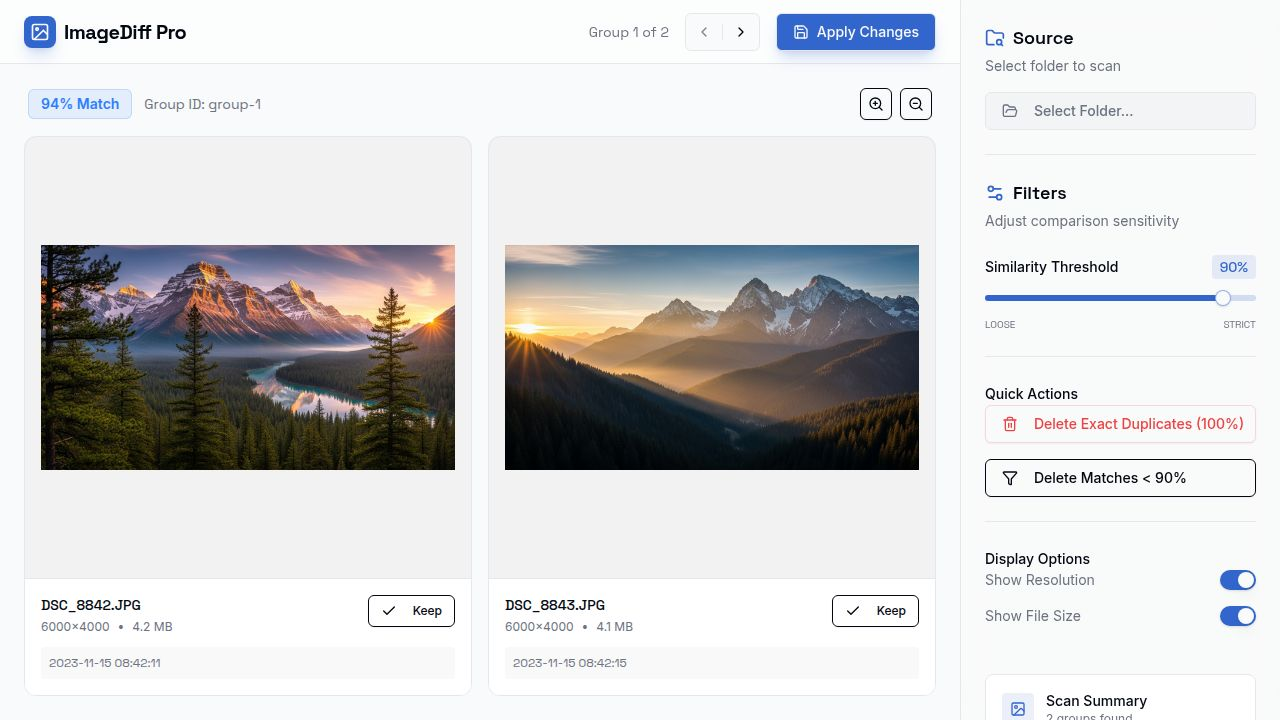
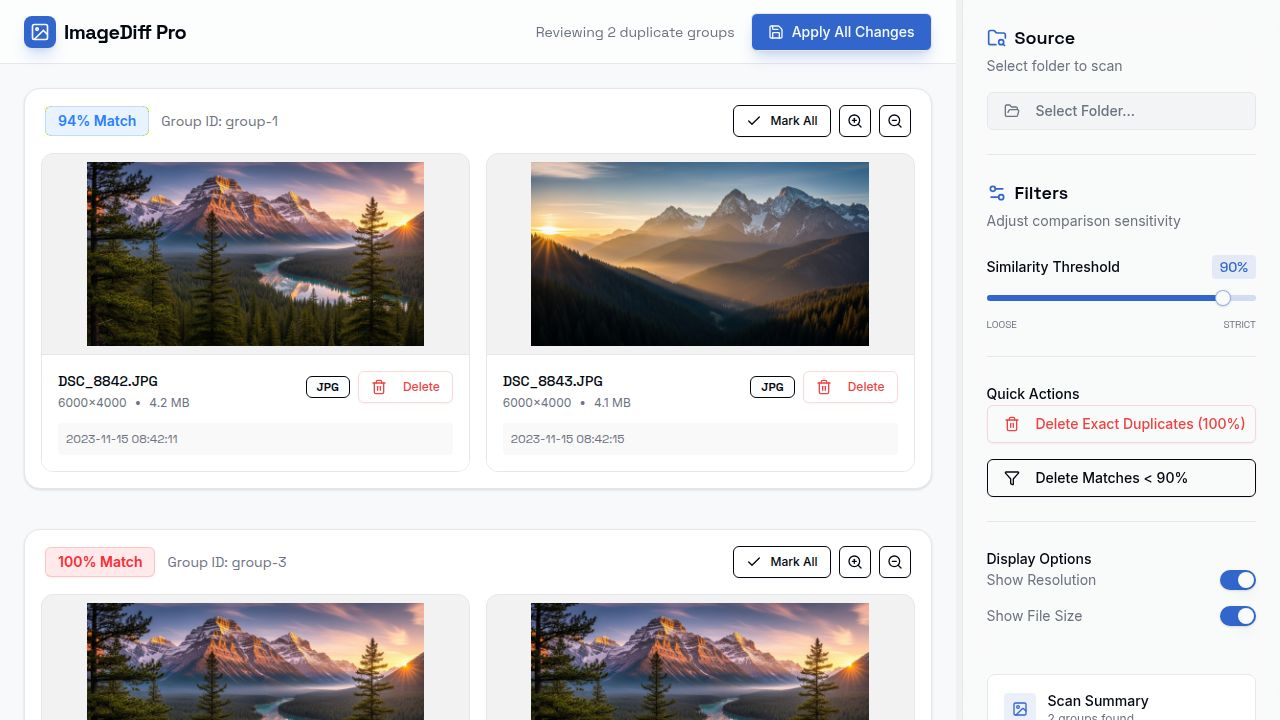
Adjust image display to ensure previews are always visible
Update the comparison view component to use responsive grid columns, set a minimum height for image cards, and adjust image padding.

Replit-Commit-Author: Agent
Replit-Commit-Session-Id: a479b793-fce8-49a6-8aaa-36aca261d85a
Replit-Commit-Checkpoint-Type: full_checkpoint
Replit-Commit-Event-Id: 0048a88e-697f-440b-bc32-5f196ad237db
Replit-Commit-Screenshot-Url: https://storage.googleapis.com/screenshot-production-us-central1/b874bb77-2479-43a5-8d6e-bc518333fc56/a479b793-fce8-49a6-8aaa-36aca261d85a/14Srd6S
Replit-Helium-Checkpoint-Created: true

diff --git a/client/src/components/comparison-view.tsx b/client/src/components/comparison-view.tsx
@@ -48,7 +48,7 @@ export function ComparisonView({ group, onToggleMark, onToggleMarkAll }: Compari
         </div>
       </div>
 
-      <div className="grid grid-cols-2 gap-4">
+      <div className="grid grid-cols-1 md:grid-cols-2 lg:grid-cols-3 xl:grid-cols-4 gap-4">
         {group.images.map((img) => (
           <ImageCard 
             key={img.id} 
@@ -85,16 +85,16 @@ function ImageCard({
   return (
     <div 
       className={cn(
-        "relative group flex flex-col rounded-xl border bg-card overflow-hidden transition-all duration-300",
+        "relative group flex flex-col rounded-xl border bg-card overflow-hidden transition-all duration-300 min-h-[300px]",
         isMarked ? "border-destructive/50 ring-1 ring-destructive/20 opacity-60" : "border-border hover:border-primary/50"
       )}
     >
       {/* Image Container */}
-      <div className="relative flex-1 bg-black/5 overflow-hidden">
+      <div className="relative flex-1 min-h-[200px] bg-black/5 overflow-hidden">
         <img 
           src={image.src} 
           alt={image.name} 
-          className="absolute inset-0 w-full h-full object-contain p-4"
+          className="absolute inset-0 w-full h-full object-contain p-2"
         />
         
         {/* Overlay Actions */}
